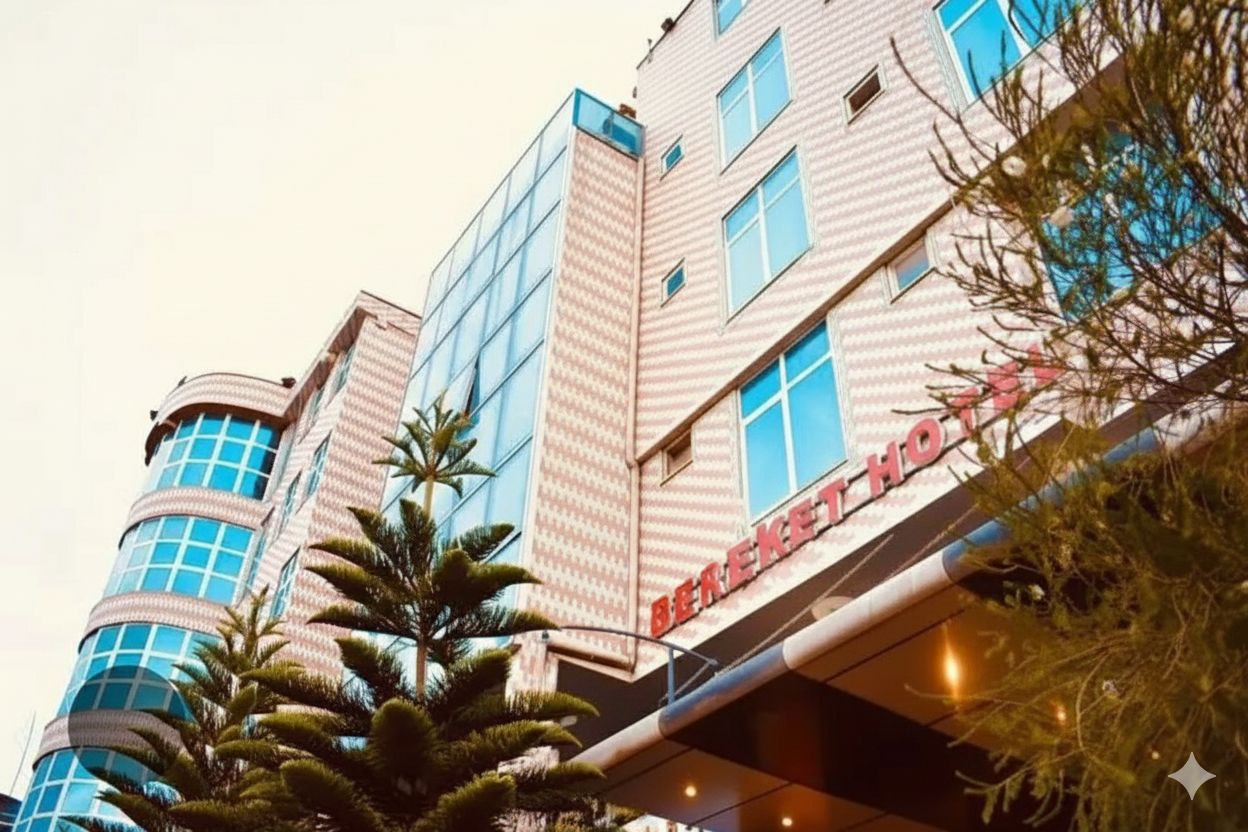
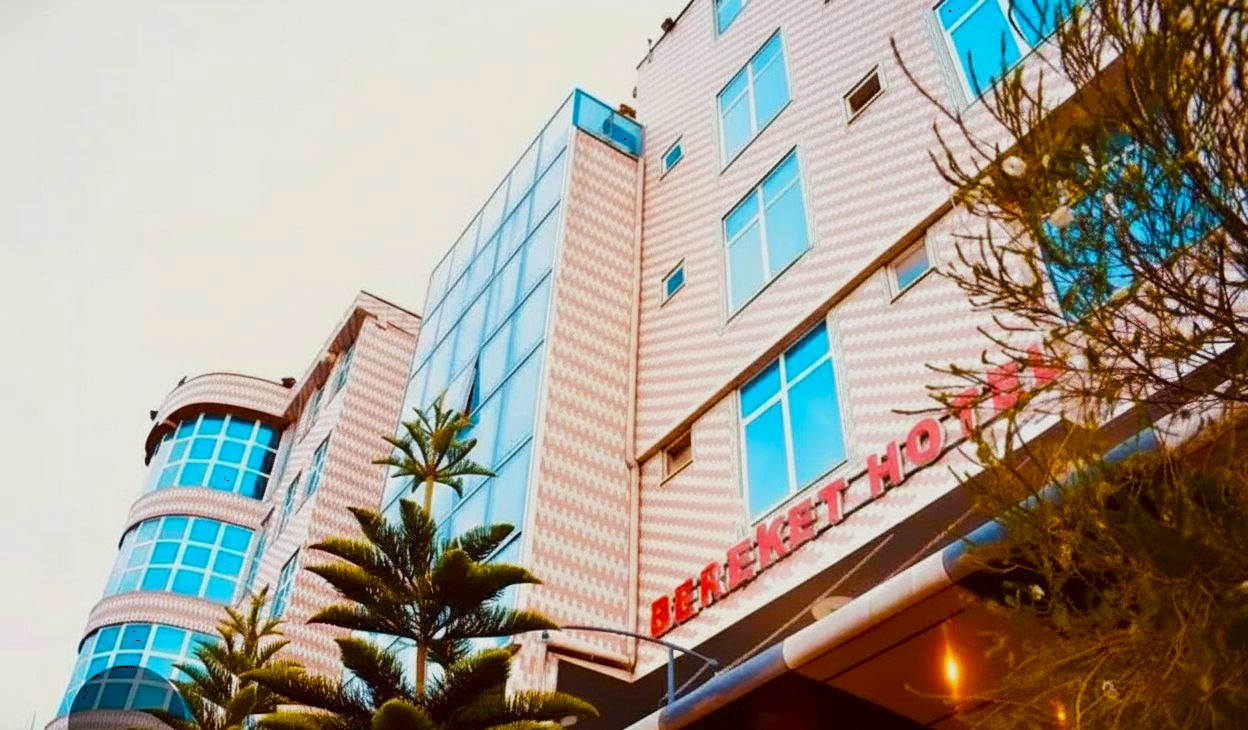
update

diff --git a/js/script.js b/js/script.js
@@ -29,7 +29,6 @@ function cleanCart(saveAfterClean = false) {
       !isNaN(parseInt(item.quantity)) &&
       parseInt(item.quantity) > 0;
 
-
     return hasId && hasName && hasPrice && hasQuantity;
   });
 
@@ -46,12 +45,14 @@ function cleanCart(saveAfterClean = false) {
   }
 }
 cleanCart(true);
-const menuItems = [
+
+// Built-in fallback menu (used only if server fetch fails)
+const defaultMenuItems = [
   {
     id: 1,
     name: " Doro Wat",
     description: "Spicy chicken stew with injera",
-    price: 250,
+    price: 285,
     category: "main-course",
     image: "asset/image/doro.jpg",
   },
@@ -59,7 +60,7 @@ const menuItems = [
     id: 2,
     name: "Tibs",
     description: "Sautéed beef with vegetables",
-    price: 280,
+    price: 320,
     category: "main-course",
     image: "asset/image/tibs.jpg",
   },
@@ -67,7 +68,7 @@ const menuItems = [
     id: 3,
     name: "Kitfo",
     description: "Minced raw beef with spices",
-    price: 300,
+    price: 340,
     category: "main-course",
     image: "asset/image/kitfo.jpg",
   },
@@ -75,7 +76,7 @@ const menuItems = [
     id: 4,
     name: "Shiro",
     description: "Chickpea stew with injera",
-    price: 180,
+    price: 205,
     category: "main-course",
     image: "asset/image/shero.jpg",
   },
@@ -83,7 +84,7 @@ const menuItems = [
     id: 5,
     name: "Firfir",
     description: "Shredded injera with sauce",
-    price: 150,
+    price: 170,
     category: "main-course",
     image: "asset/image/firfir.jpg",
   },
@@ -91,7 +92,7 @@ const menuItems = [
     id: 6,
     name: "Vegetable Samosa",
     description: "Crispy pastry with vegetables",
-    price: 50,
+    price: 58,
     category: "appetizers",
     image: "asset/image/samosa.jpg",
   },
@@ -99,7 +100,7 @@ const menuItems = [
     id: 7,
     name: "Ethiopian Salad",
     description: "Fresh mixed vegetables",
-    price: 120,
+    price: 138,
     category: "appetizers",
     image: "asset/image/salad.jpg",
   },
@@ -107,7 +108,7 @@ const menuItems = [
     id: 8,
     name: "Baklava",
     description: "Sweet pastry with honey",
-    price: 100,
+    price: 115,
     category: "desserts",
     image: "asset/image/baklava.jpg",
   },
@@ -115,37 +116,60 @@ const menuItems = [
     id: 9,
     name: "Tiramisu",
     description: "Italian coffee dessert",
-    price: 150,
+    price: 170,
     category: "desserts",
     image: "asset/image/tiramisu.jpg",
-  },
-  {
-    id: 10,
-    name: "Ethiopian Coffee",
-    description: "Traditional coffee ceremony",
-    price: 80,
-    category: "beverages",
-    image: "asset/image/coffee.jpg",
   },
   {
     id: 11,
     name: "Fresh Juice",
     description: "Seasonal fruit juice",
-    price: 60,
+    price: 70,
     category: "beverages",
     image: "asset/image/fresh.jpg",
   },
-  {
-    id: 12,
-    name: "Tej",
-    description: "Honey wine",
-    price: 200,
-    category: "beverages",
-    image: "asset/image/tej.jpg",
-  },
 ];
 
-document.addEventListener("DOMContentLoaded", function () {
+let menuItems = defaultMenuItems.slice();
+
+async function fetchMenuFromServer() {
+  try {
+    const res = await fetch('php/get_menu.php');
+    if (!res.ok) throw new Error('Network response was not ok');
+    const data = await res.json();
+    if (Array.isArray(data)) {
+      menuItems = data.map((item) => {
+        // Normalize image path - ensure it's a valid path
+        let imagePath = item.image || 'asset/image/default.jpg';
+        // Remove any leading ../ if present (customer pages are at root)
+        if (imagePath.startsWith('../')) {
+          imagePath = imagePath.substring(3);
+        }
+        // Ensure asset and uploads paths are correct
+        if (!imagePath.startsWith('asset/') && !imagePath.startsWith('uploads/') && !imagePath.startsWith('http')) {
+          // If it's just a filename or emoji, use default
+          if (imagePath.length < 10 && !imagePath.includes('.')) {
+            imagePath = 'asset/image/default.jpg';
+          }
+        }
+        return {
+          id: parseInt(item.id, 10),
+          name: item.name,
+          description: item.description,
+          price: parseFloat(item.price) || 0,
+          category: item.category || 'uncategorized',
+          image: imagePath,
+        };
+      });
+    }
+  } catch (err) {
+    console.warn('Fetching menu failed, using fallback menu:', err);
+    // keep using defaultMenuItems which are already in `menuItems`
+  }
+}
+
+document.addEventListener("DOMContentLoaded", async function () {
+  await fetchMenuFromServer();
   cleanCart();
   updateCartCount();
   const hamburger = document.querySelector(".hamburger");

diff --git a/admin/menu.php b/admin/menu.php
@@ -51,8 +51,14 @@ if ($_SERVER['REQUEST_METHOD'] === 'POST') {
         if ($upload['error']) { $error = $upload['error']; } 
         else {
             $imagePath = !empty($upload['path']) ? $upload['path'] : $image;
-            $stmt = $conn->prepare("INSERT INTO menu_items (name, description, price, category, stock, image) VALUES (?, ?, ?, ?, ?, ?)");
-            $stmt->bind_param("ssdsis", $name, $description, $price, $category, $stock, $imagePath);
+            // Normalize image path - remove ../ prefix if present for consistency
+            if (strpos($imagePath, '../') === 0) {
+                $imagePath = substr($imagePath, 3);
+            }
+            // Default status to 'active' for new items
+            $status = 'active';
+            $stmt = $conn->prepare("INSERT INTO menu_items (name, description, price, category, stock, image, status) VALUES (?, ?, ?, ?, ?, ?, ?)");
+            $stmt->bind_param("ssdsiss", $name, $description, $price, $category, $stock, $imagePath, $status);
             $stmt->execute();
             header('Location: menu.php?success=1'); exit;
         }
@@ -181,9 +187,20 @@ if ($result) {
                             <td><?php echo ucfirst($item['category']); ?></td>
                             <td><?php echo $item['stock']; ?></td>
                             <td>
-                                <?php if(strpos($item['image'], 'uploads') === 0): ?>
-                                    <img src="../<?php echo $item['image']; ?>" width="40">
-                                <?php else: echo $item['image']; endif; ?>
+                                <?php 
+                                $imagePath = $item['image'];
+                                if(strpos($imagePath, 'uploads') === 0): 
+                                    // Uploaded image - needs ../ prefix
+                                    echo '<img src="../' . htmlspecialchars($imagePath) . '" width="40" alt="' . htmlspecialchars($item['name']) . '">';
+                                elseif(strpos($imagePath, 'asset/') === 0 || strpos($imagePath, '../asset/') === 0): 
+                                    // Asset folder image - use as is or with ../ prefix
+                                    $displayPath = (strpos($imagePath, '../') === 0) ? $imagePath : '../' . $imagePath;
+                                    echo '<img src="' . htmlspecialchars($displayPath) . '" width="40" alt="' . htmlspecialchars($item['name']) . '">';
+                                else: 
+                                    // Other cases (emoji, URL, etc.)
+                                    echo htmlspecialchars($imagePath); 
+                                endif; 
+                                ?>
                             </td>
                             <td>
                                 <button onclick='editItem(<?php echo json_encode($item); ?>)'>Edit</button>
@@ -218,6 +235,7 @@ if ($result) {
                     <select id="category" name="category" required>
                         <option value="appetizers">Appetizers</option>
                         <option value="main-course">Main Course</option>
+                        <option value="desserts">Desserts</option>
                         <option value="beverages">Beverages</option>
                     </select>
                 </div>

diff --git a/admin/menu_api.php b/admin/menu_api.php
@@ -38,12 +38,14 @@ try{
         $upload = saveUploadedImage('image_file');
         if ($upload['error']) respond(['success'=>false,'error'=>$upload['error']],400);
         $image = $upload['path'] ?: $imageManual;
-        $stmt = $conn->prepare("INSERT INTO menu_items (name, description, price, category, stock, image) VALUES (?, ?, ?, ?, ?, ?)");
-        $stmt->bind_param('ssdsis', $name, $description, $price, $category, $stock, $image);
+        // Default status to 'active' for new items
+        $status = 'active';
+        $stmt = $conn->prepare("INSERT INTO menu_items (name, description, price, category, stock, image, status) VALUES (?, ?, ?, ?, ?, ?, ?)");
+        $stmt->bind_param('ssdsiss', $name, $description, $price, $category, $stock, $image, $status);
         $ok = $stmt->execute();
         $id = $stmt->insert_id;
         $stmt->close();
-        respond(['success'=> (bool)$ok, 'action'=>'added', 'id'=>$id, 'row' => ['id'=>$id,'name'=>$name,'price'=>$price,'category'=>$category,'stock'=>$stock,'image'=>$image]]);
+        respond(['success'=> (bool)$ok, 'action'=>'added', 'id'=>$id, 'row' => ['id'=>$id,'name'=>$name,'price'=>$price,'category'=>$category,'stock'=>$stock,'image'=>$image,'status'=>$status]]);
     }
 
     if ($action === 'update'){

diff --git a/php/get_menu.php b/php/get_menu.php
@@ -1,0 +1,25 @@
+<?php
+header('Content-Type: application/json');
+require_once __DIR__ . '/config.php';
+
+try{
+    $conn = getDBConnection();
+    $stmt = $conn->prepare("SELECT id, name, description, price, category, image, stock, status FROM menu_items WHERE status = 'active' ORDER BY category, name");
+    $stmt->execute();
+    $res = $stmt->get_result();
+    $items = [];
+    while($row = $res->fetch_assoc()){
+        // Normalize image path - remove ../ prefix if present
+        if (!empty($row['image']) && strpos($row['image'], '../') === 0) {
+            $row['image'] = substr($row['image'], 3);
+        }
+        $items[] = $row;
+    }
+    $stmt->close();
+    echo json_encode($items);
+} catch(Exception $e){
+    http_response_code(500);
+    echo json_encode(['error' => $e->getMessage()]);
+}
+
+?>
